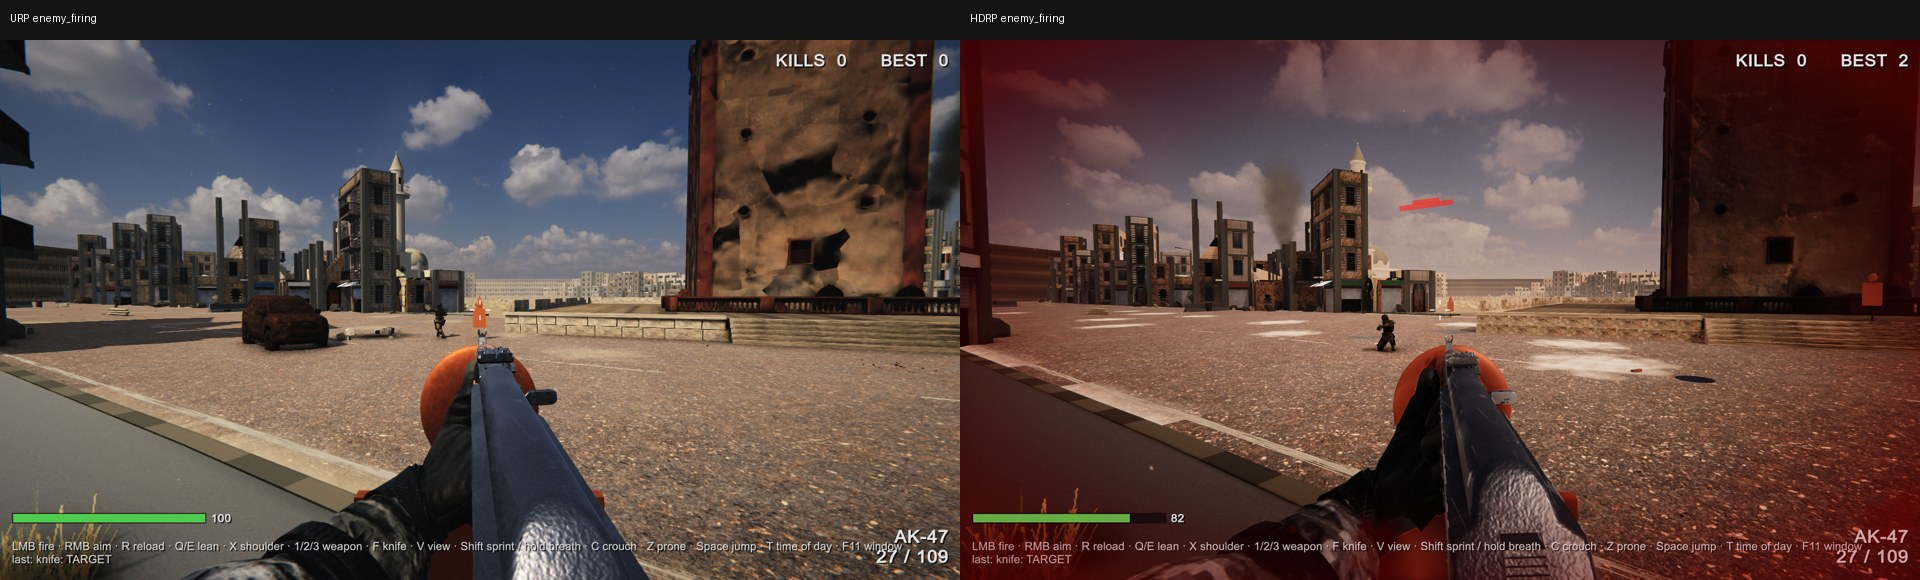
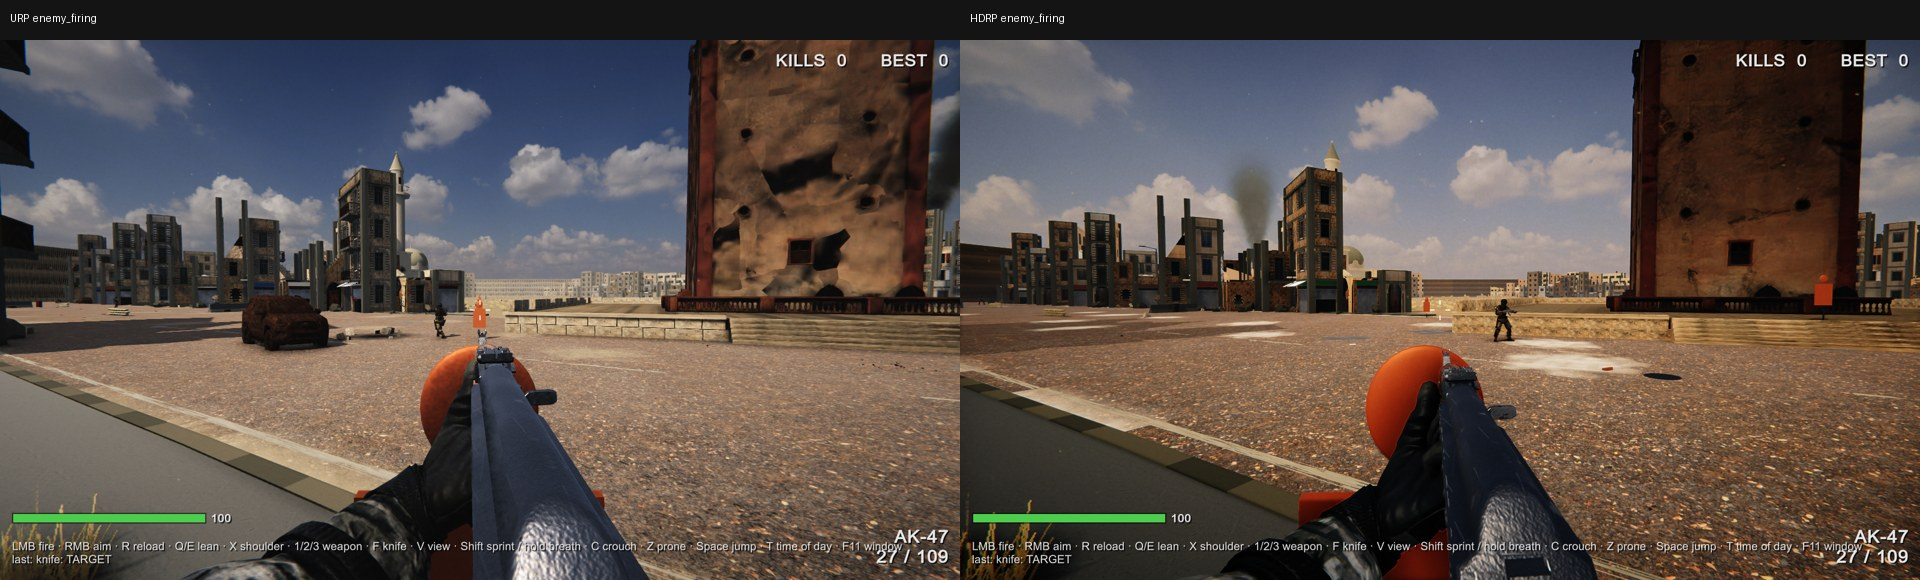
HDRP look tuning: sky turned to the URP layout, sky-coloured distance fog, cooler grade with more contrast, sea colour, shore foam decals; report updated

diff --git a/Assets/Editor/CinematicLook.cs b/Assets/Editor/CinematicLook.cs
@@ -133,8 +133,8 @@ public static class CinematicLook
 
         // the URP grade, value for value (exposure, saturation and filter belong to the hour: TimeOfDay)
         var ca = Add<ColorAdjustments>();
-        ca.contrast.Override(10f); ca.hueShift.Override(0f);
-        var wb = Add<WhiteBalance>(); wb.temperature.Override(5f); wb.tint.Override(0f);
+        ca.contrast.Override(15f); ca.hueShift.Override(0f);
+        var wb = Add<WhiteBalance>(); wb.temperature.Override(-1f);        // URP had +5; with bounce light off the sand the picture is warm enough wb.tint.Override(0f);
         var smh = Add<ShadowsMidtonesHighlights>();                                   // shade a little cool, sunlight a little warm
         smh.shadows.Override(new Vector4(0.95f, 0.99f, 1.05f, -0.02f)); smh.midtones.Override(new Vector4(1f, 1f, 1f, 0f)); smh.highlights.Override(new Vector4(1.05f, 1.0f, 0.95f, 0f));
         smh.shadowsStart.Override(0f); smh.shadowsEnd.Override(0.3f); smh.highlightsStart.Override(0.55f); smh.highlightsEnd.Override(1f);
@@ -205,7 +205,7 @@ public static class CinematicLook
             {
                 var c = line.Trim().Split(';'); if (c.Length < 4 || c[0] != preset.name) continue;
                 float P(string v) => float.Parse(v, CultureInfo.InvariantCulture);
-                var d = new Vector3(P(c[1]), P(c[2]), P(c[3])); if (d.y < 0.1f) { d.y = 0.1f; }
+                var d = TimeOfDay.SkyDir(new Vector3(P(c[1]), P(c[2]), P(c[3]))); if (d.y < 0.1f) { d.y = 0.1f; }
                 sun.transform.rotation = Quaternion.LookRotation(-d.normalized); EditorUtility.SetDirty(sun.transform);
             }
         TimeOfDay.WriteSun(sun, preset);
@@ -265,16 +265,77 @@ public static class CinematicLook
         w.largeBand0Multiplier = 0.55f; w.largeBand1Multiplier = 0.8f;
         w.ripples = true; w.ripplesWindSpeed = 7f; w.ripplesChaos = 0.9f;
         // colour: clear turquoise in the shallows going to deep blue (refraction with absorption, scattering in the body)
-        w.refractionColor = new Color(0.12f, 0.55f, 0.6f); w.maxRefractionDistance = 0.6f; w.absorptionDistance = 7f;
-        w.scatteringColor = new Color(0.0f, 0.3f, 0.42f); w.ambientScattering = 0.45f; w.heightScattering = 0.2f; w.displacementScattering = 0.25f;
+        w.refractionColor = new Color(0.1f, 0.6f, 0.62f); w.maxRefractionDistance = 0.6f; w.absorptionDistance = 9f;
+        w.scatteringColor = new Color(0.02f, 0.36f, 0.46f); w.ambientScattering = 0.6f; w.heightScattering = 0.2f; w.displacementScattering = 0.25f;
         w.directLightTipScattering = 0.5f; w.directLightBodyScattering = 0.4f;
         w.startSmoothness = 0.95f; w.endSmoothness = 0.85f; w.smoothnessFadeStart = 100f; w.smoothnessFadeDistance = 500f;
         w.tessellation = true; w.maxTessellationFactor = 2f;
-        w.foam = true; w.simulationFoamAmount = 0.25f; w.foamTextureTiling = 0.2f;
+        w.foam = true; w.simulationFoamAmount = 0.25f; w.foamTextureTiling = 0.35f; w.foamPersistenceMultiplier = 0.6f; w.foamSmoothness = 0.2f;
+        w.foamResolution = WaterSurface.WaterDecalRegionResolution.Resolution1024; w.decalRegionSize = new Vector2(240, 240);
+        ShoreFoam(go.transform);
         w.caustics = true; w.causticsIntensity = 0.4f; w.causticsPlaneBlendDistance = 2f; w.virtualPlaneDistance = 3f;
         w.underWater = true; w.volumeBounds = null; w.volumeDepth = 40f;
         EditorUtility.SetDirty(w);
         Debug.Log($"[cinematic] sea: HDRP ocean at y {WaterLevel}, the old water mesh is switched off");
+    }
+
+    // Surf: where the sea meets the land, a line of foam patches (HDRP water decals), laid along the shore from
+    // the map's water cells. Only the shore within reach of the fight: the foam is drawn in a 240 m square that
+    // follows the camera (WaterFollow), and the pipeline takes at most 128 decals.
+    [Serializable] class MapInfo { public float half; public float seaCell; }
+    static void ShoreFoam(Transform ocean)
+    {
+        var old = ocean.Find("Shore foam"); if (old) Object.DestroyImmediate(old.gameObject);
+        var holder = new GameObject("Shore foam").transform; holder.SetParent(ocean, false);
+        var map = JsonUtility.FromJson<MapInfo>(File.ReadAllText("Assets/Benghazi/Data/benghazi_corniche.json"));
+        float half = map.half, cell = map.seaCell; int n = Mathf.RoundToInt(2 * half / cell);
+        var sea = new bool[n, n];
+        foreach (var s in SceneBuilder.ParseSea())
+        {
+            int j = Mathf.Clamp(Mathf.FloorToInt((s[2] + half) / cell + 0.01f), 0, n - 1);
+            int i0 = Mathf.Clamp(Mathf.RoundToInt((s[0] + half) / cell), 0, n), i1 = Mathf.Clamp(Mathf.RoundToInt((s[1] + half) / cell), 0, n);
+            for (int i = i0; i < i1; i++) sea[i, j] = true;
+        }
+        var player = GameObject.Find("Player"); var centre = player ? player.transform.position : Vector3.zero;
+        var placed = new List<Vector3>(); const float step = 9f, reach = 420f; int made = 0;
+        // HDRP's default decal material does not make foam. This is the material its own foam generator used:
+        // a soft-edged rectangle that only writes foam (no deformation of the surface).
+        const string foamPath = "Assets/Benghazi/HDRP/ShoreFoam.mat";
+        const string FoamShaderPath = "Packages/com.unity.render-pipelines.high-definition/Runtime/RenderPipelineResources/ShaderGraph/Water Decal Sample.shadergraph";
+        var foamShader = AssetDatabase.LoadAssetAtPath<Shader>(FoamShaderPath);
+        var foamMat = AssetDatabase.LoadAssetAtPath<Material>(foamPath);
+        if (!foamMat) { foamMat = new Material(foamShader) { name = "ShoreFoam" }; AssetDatabase.CreateAsset(foamMat, foamPath); }
+        foamMat.shader = foamShader;
+        foamMat.SetFloat("_AffectDeformation", 0f); foamMat.SetFloat("_AffectFoam", 1f); foamMat.SetFloat("_TYPE", 1f);
+        foamMat.SetVector("_Blend_Distance", new Vector4(0.2f, 0.45f, 0, 0));
+        MaterialEditor.ApplyMaterialPropertyDrawers(foamMat); HDMaterial.ValidateMaterial(foamMat); EditorUtility.SetDirty(foamMat);
+        Debug.Log($"[cinematic] shore foam material: shader {foamShader.name}, keywords [{string.Join(" ", foamMat.shaderKeywords)}]");
+        var cand = new List<(Vector3 p, Vector3 toSea)>();
+        for (int j = 1; j < n - 1; j++) for (int i = 1; i < n - 1; i++)
+        {
+            if (!sea[i, j]) continue;
+            Vector3 toLand = Vector3.zero;
+            foreach (var (di, dj) in new[] { (1, 0), (-1, 0), (0, 1), (0, -1) }) if (!sea[i + di, j + dj]) toLand += new Vector3(-di, 0, dj);     // web x -> Unity -x
+            if (toLand == Vector3.zero) continue;
+            float wx = -half + (i + 0.5f) * cell, wz = -half + (j + 0.5f) * cell;
+            var p = new Vector3(-wx, 0, wz) + toLand.normalized * (cell * 0.35f);
+            if ((p - centre).sqrMagnitude < reach * reach) cand.Add((p, -toLand.normalized));
+        }
+        foreach (var (p, toSea) in cand.OrderBy(c => (c.p - centre).sqrMagnitude))
+        {
+            if (made >= 120) break;
+            bool near = false; foreach (var q in placed) if ((q - p).sqrMagnitude < step * step) { near = true; break; }
+            if (near) continue;
+            placed.Add(p);
+            var g = new GameObject("foam"); g.transform.SetParent(holder, false);
+            g.transform.SetPositionAndRotation(new Vector3(p.x, WaterLevel, p.z) + toSea * 1.2f, Quaternion.LookRotation(toSea));
+            var d = g.AddComponent<WaterDecal>();
+            d.material = foamMat; d.resolution = new Vector2Int(64, 64);
+            d.regionSize = new Vector2(step * 1.5f, 5.5f); d.amplitude = 0f; d.surfaceFoamDimmer = 0.75f; d.deepFoamDimmer = 0.6f;
+            made++;
+        }
+        if (!ocean.GetComponent<WaterFollow>()) ocean.gameObject.AddComponent<WaterFollow>();
+        Debug.Log($"[cinematic] shore foam: {made} patches along {cand.Count} shore cells within {reach:F0} m (cell {cell} m)");
     }
 
     // things only the built-in / URP renderers used

diff --git a/Assets/Benghazi/Scripts/TimeOfDay.cs b/Assets/Benghazi/Scripts/TimeOfDay.cs
@@ -45,13 +45,18 @@ public class TimeOfDay : MonoBehaviour
     public static readonly float[] RealSkyExposure = { 0.8f, 0.85f, 0.9f, 1.0f, 0.13f };
 
     // ---- HDRP scale (see the header)
-    public const float ExposureBase = -1.6f;          // EV100 for a preset exposure of 0. Set by eye against the URP build's pictures on the promenade
+    public const float ExposureBase = -1.5f;          // EV100 for a preset exposure of 0. Set by eye against the URP build's pictures on the promenade
                                                       // (HdrpDebug.Expo); -0.26, where HDRP's exposure multiplier is exactly 1, came out 1.3 stops under.
     public const float SunLux = Mathf.PI;             // lux per unit of the old directional-light strength
     public const float FogTop = 90f;                  // the haze thins out above the roofs (m)
     // The photograph is shown darker than it lights: at the exposure the ground needs, the sky as it is would be
     // washed out. Its light and reflections are multiplied back, so the scene is lit exactly as before.
-    public const float SkyShown = 0.5f;
+    public const float SkyShown = 0.62f;
+    // HDRP wraps a lat-long photograph onto its cubemap a quarter turn round from where URP's panoramic skybox
+    // showed it. The sky is turned back, so every hour has its sun over the same part of the city as in the URP
+    // build (the sunset over the sea). SkyYaw turns the light with it; SkyRotation is the HDRI Sky's own setting.
+    public const float SkyYaw = 90f, SkyRotation = 270f;
+    public static Vector3 SkyDir(Vector3 inCubemap) => Quaternion.Euler(0, SkyYaw, 0) * inCubemap;
 
     public static int Current { get; private set; } = 2;
     public static string Name => Presets[Current].name;
@@ -75,12 +80,17 @@ public class TimeOfDay : MonoBehaviour
         r.env.skyType.Override((int)SkyType.HDRI); r.env.skyAmbientMode.Override(SkyAmbientMode.Dynamic);
         if (cube) r.hdri.hdriSky.Override(cube);
         r.hdri.skyIntensityMode.Override(SkyIntensityMode.Multiplier);
-        r.hdri.multiplier.Override(Mathf.Max(0.0001f, skyMul * dip * SkyShown)); r.hdri.exposure.Override(0f); r.hdri.rotation.Override(0f);
+        r.hdri.multiplier.Override(Mathf.Max(0.0001f, skyMul * dip * SkyShown)); r.hdri.exposure.Override(0f); r.hdri.rotation.Override(SkyRotation);
         r.hdri.updateMode.Override(EnvironmentUpdateMode.OnChanged);
 
         // haze. URP's fog was exp(-(d z)^2); HDRP's is exp(-z / meanFreePath). They agree at 150 m with meanFreePath = 1 / (d^2 * 150).
         r.fog.enabled.Override(true);
-        r.fog.colorMode.Override(FogColorMode.ConstantColor); r.fog.color.Override(p.haze); r.fog.tint.Override(Color.white);
+        // the distance fades into the colour of the sky behind it (URP left the sky clear of fog; a constant haze
+        // colour here would lie over the sky as well and wash it out), warmed a little towards the hour's dust
+        float hz = Mathf.Max(p.haze.r, p.haze.g, p.haze.b, 0.001f);
+        r.fog.colorMode.Override(FogColorMode.SkyColor); r.fog.color.Override(p.haze);
+        r.fog.tint.Override(Color.Lerp(Color.white, new Color(p.haze.r / hz, p.haze.g / hz, p.haze.b / hz), 0.45f));
+        r.fog.mipFogNear.Override(0f); r.fog.mipFogFar.Override(600f); r.fog.mipFogMaxMip.Override(0.6f);
         // (matched at 300 m in fact, x 1.6: an exponential haze is far heavier close by than URP's squared one, and
         // close by is where the fight is - the street must stay crisp, the far blocks fade)
         r.fog.meanFreePath.Override(Mathf.Clamp(1.6f / (p.hazeDensity * p.hazeDensity * 300f), 60f, 6000f));
@@ -148,7 +158,7 @@ public class TimeOfDay : MonoBehaviour
                 float P(string v) => float.Parse(v, System.Globalization.CultureInfo.InvariantCulture);
                 var d = new Vector3(P(c[1]), P(c[2]), P(c[3]));
                 if (d.y < 0.1f) { d.y = 0.1f; d.Normalize(); }                 // never from below the roofs: shadows would cover everything
-                lightDir[k] = d.normalized; hasDir[k] = true;
+                lightDir[k] = SkyDir(d.normalized); hasDir[k] = true;
             }
         int start = 2; var a = System.Environment.GetCommandLineArgs();
         for (int i = 0; i < a.Length - 1; i++) if (a[i] == "-time") { int k = Find(a[i + 1]); if (k >= 0) start = k; }

diff --git a/Assets/Editor/HdrpDebug.cs b/Assets/Editor/HdrpDebug.cs
@@ -33,8 +33,13 @@ public static class HdrpDebug
         cam.transform.rotation = Quaternion.LookRotation(-sun.transform.forward); SceneBuilder.Shoot(cam, "dbg_3_sun.png");
         var lh = SceneBuilder.FindLighthouse(); var seaDir = CityDetail.SeaDirection();
         cam.transform.position = lh + seaDir * 48f + Vector3.Cross(Vector3.up, seaDir) * 14f + Vector3.up * 1.7f; cam.transform.LookAt(lh + Vector3.up * 9f); SceneBuilder.Shoot(cam, "dbg_4_lighthouse.png");
-        if (CityDetail.ReviewViews.Count > 0) { var v = CityDetail.ReviewViews[0]; cam.transform.position = v.eye; cam.transform.LookAt(v.at); SceneBuilder.Shoot(cam, "dbg_5_street.png"); }
-        else { cam.transform.position = at + Vector3.up * 1.62f - fwd * 2f + Vector3.Cross(Vector3.up, fwd) * 60f; cam.transform.rotation = Quaternion.LookRotation(Vector3.Cross(Vector3.up, fwd)); SceneBuilder.Shoot(cam, "dbg_5_street.png"); }
+        // the surf: the nearest foam patch, seen from the land side and from above
+        var foam = GameObject.Find("Shore foam");
+        if (foam && foam.transform.childCount > 0)
+        {
+            var f = foam.transform.GetChild(0);
+            cam.transform.position = f.position - f.forward * 9f + Vector3.up * 2.4f + f.right * 4f; cam.transform.LookAt(f.position + f.forward * 6f + f.right * 14f); SceneBuilder.Shoot(cam, "dbg_5_shore.png");
+        }
         Debug.Log("[dbg] done");
     }
 

diff --git a/Assets/Benghazi/Scripts/WaterFollow.cs b/Assets/Benghazi/Scripts/WaterFollow.cs
@@ -1,0 +1,27 @@
+using UnityEngine;
+using UnityEngine.Rendering.HighDefinition;
+
+// The HDRP ocean draws its foam (the surf along the shore: water decals written by the editor's CinematicLook)
+// inside a square region. This keeps that square centred on the camera, so wherever the player walks along the
+// seafront the surf near him is drawn. Added to the "Ocean" object by CinematicLook.
+[RequireComponent(typeof(WaterSurface))]
+public class WaterFollow : MonoBehaviour
+{
+    Transform anchor; Camera cam; WaterSurface water;
+
+    void Start()
+    {
+        water = GetComponent<WaterSurface>();
+        anchor = new GameObject("Foam region").transform;
+        water.decalRegionAnchor = anchor;
+    }
+
+    void LateUpdate()
+    {
+        if (!cam) cam = Camera.main;
+        if (!cam || !anchor) return;
+        // in 16 m steps: the foam texture is not re-laid every frame the camera moves
+        var p = cam.transform.position;
+        anchor.position = new Vector3(Mathf.Round(p.x / 16f) * 16f, transform.position.y, Mathf.Round(p.z / 16f) * 16f);
+    }
+}

diff --git a/Assets/Editor/HdrpSetup.cs b/Assets/Editor/HdrpSetup.cs
@@ -75,7 +75,7 @@ public static class HdrpSetup
         s.supportSSR = true; s.supportSSRTransparent = false;
         s.supportSSAO = true; s.supportSSGI = true;
         s.supportVolumetrics = true; s.supportVolumetricClouds = false;
-        s.supportWater = true; s.supportWaterDecals = false; s.supportWaterExclusion = false;
+        s.supportWater = true; s.supportWaterDecals = true; s.maximumWaterDecalCount = 128; s.supportWaterExclusion = false;     // decals: the surf along the shore
         s.waterSimulationResolution = WaterSimulationResolution.Medium128;
         s.supportDecals = true; s.supportDecalLayers = false;
         s.supportMotionVectors = true; s.supportScreenSpaceLensFlare = true; s.supportDataDrivenLensFlare = false;
